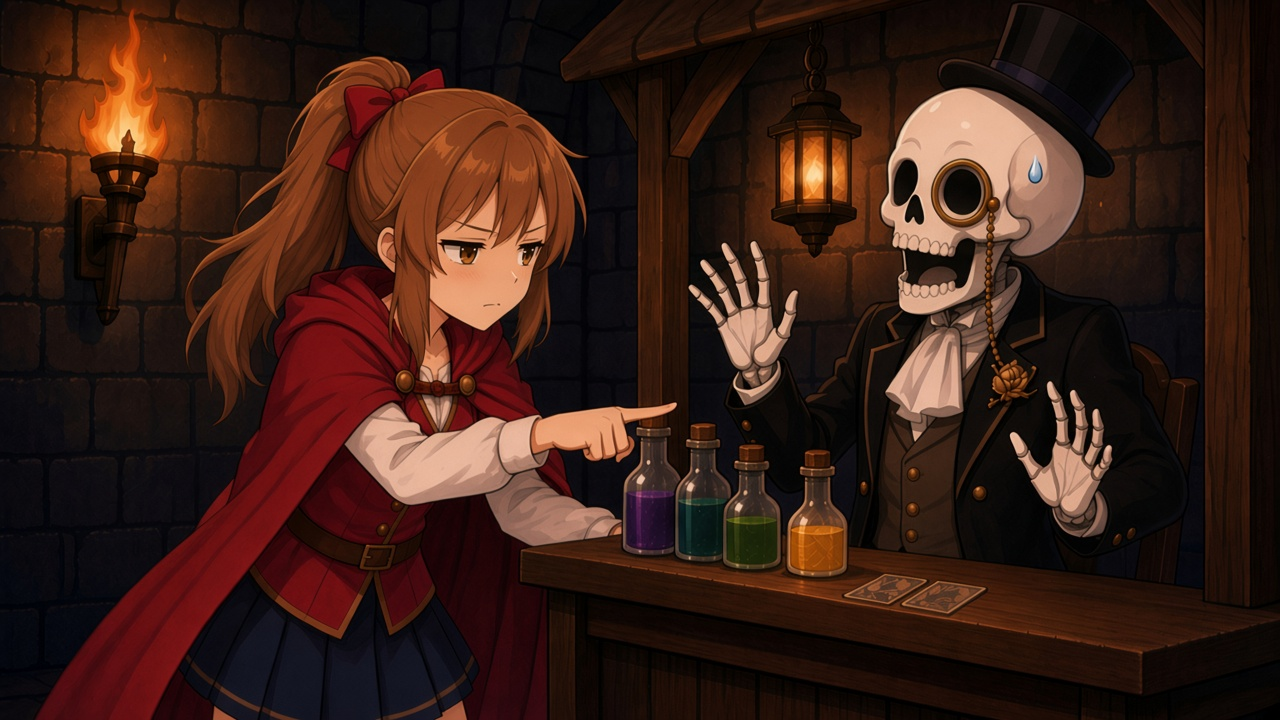
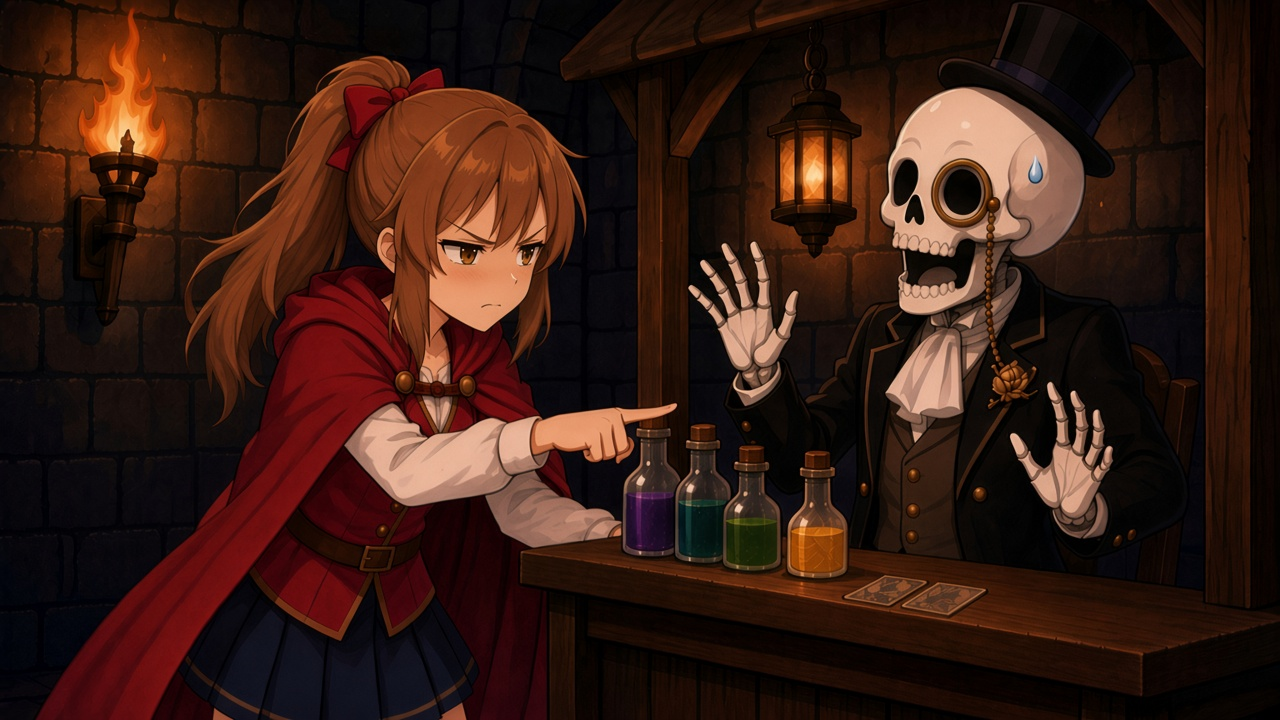
Redraw the search, job, and shop event pictures.

diff --git a/index.html b/index.html
@@ -10087,12 +10087,12 @@
             <h3>道のあとのイベント（画像置き場）</h3>
             <p class="album-meta">道を選んだあとに出る出来事の絵。頭身は戦闘絵と同じ。迷子と遭遇の絵は出さない</p>
             <div class="ref-grid">
-              ${sheetFig("event-search.jpg?v=4", "探索", "land-ref", "span-2")}
+              ${sheetFig("event-search.jpg?v=5", "探索", "land-ref", "span-2")}
               ${sheetFig("event-fight.jpg?v=1", "戦闘", "land-ref", "span-2 path-series")}
               ${sheetFig("event-beggar.jpg?v=1", "物乞い", "land-ref", "span-2")}
-              ${sheetFig("shop-merchant.jpg?v=5", "お店", "land-ref", "span-2")}
+              ${sheetFig("shop-merchant.jpg?v=6", "お店", "land-ref", "span-2")}
               ${sheetFig("event-rest.jpg?v=4", "休憩", "land-ref", "span-2")}
-              ${sheetFig("event-job.jpg?v=4", "ジョブ", "land-ref", "span-2")}
+              ${sheetFig("event-job.jpg?v=5", "ジョブ", "land-ref", "span-2")}
             </div>
             <h3>ダンジョン</h3>
             <div class="ref-grid">
@@ -10271,11 +10271,11 @@
         : "";
       const eventPictures = {
         "挑戦者に祝福を": [heroItem().bless || "blessing-goddess-f.jpg?v=1", `荘厳な女神が、ひざまずく${heroName()}に祝福を授けている`],
-        "お店": ["shop-merchant.jpg?v=5", "ジト目で、値段を負けてもらおうとしている女の戦士"],
-        "探索": ["event-search.jpg?v=4", "宝箱を開けようとして、光が漏れている女の戦士"],
+        "お店": ["shop-merchant.jpg?v=6", "ジト目のまま怒って、値段を負けてもらおうとしている女の戦士"],
+        "探索": ["event-search.jpg?v=5", "宝箱の蓋を彼女の側へ開け、光が漏れている女の戦士"],
         "キャンプ": ["event-rest.jpg?v=4", "左太ももにベルト。よだれを垂らしてかわいく寝ている。奥のミノタウロスは気づかず通り過ぎる"],
         "物乞いに遭遇": ["event-beggar.jpg?v=1", "物乞いにカードを差し出す女の戦士"],
-        "ジョブ": ["event-job.jpg?v=4", "聖なる力でジョブを変えている女の戦士"],
+        "ジョブ": ["event-job.jpg?v=5", "紋章だけが光り、拳を上げてやる気を出している。顔は今のまま"],
       };
       const eventRow = eventPictures[floorKind];
       const art = eventRow ? `<img class="event-picture" src="${esc(eventRow[0])}" alt="${esc(eventRow[1])}">` : "";
